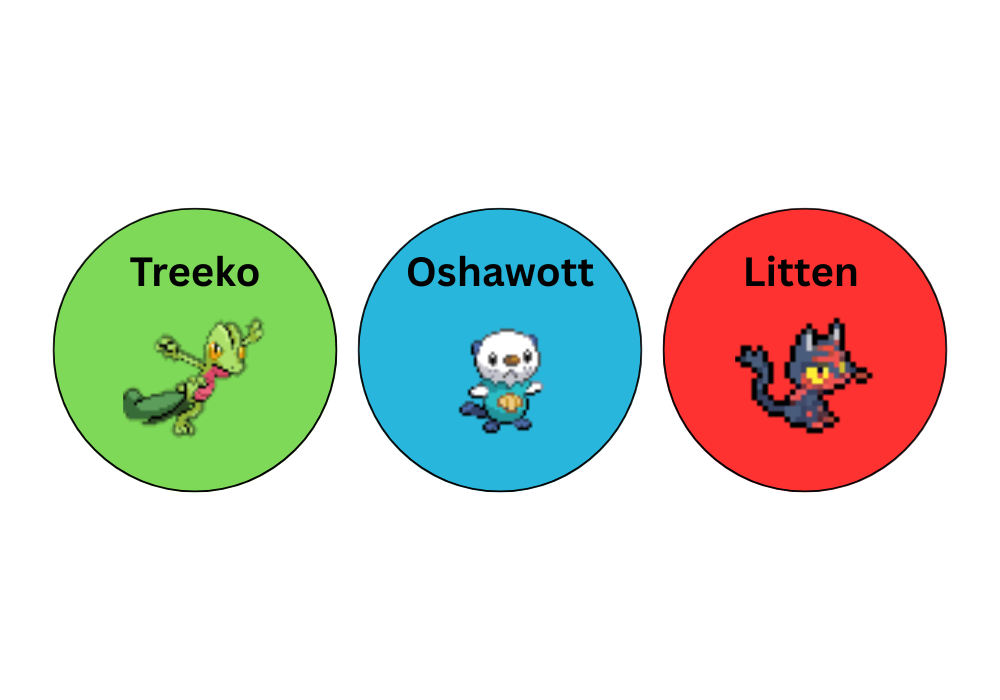
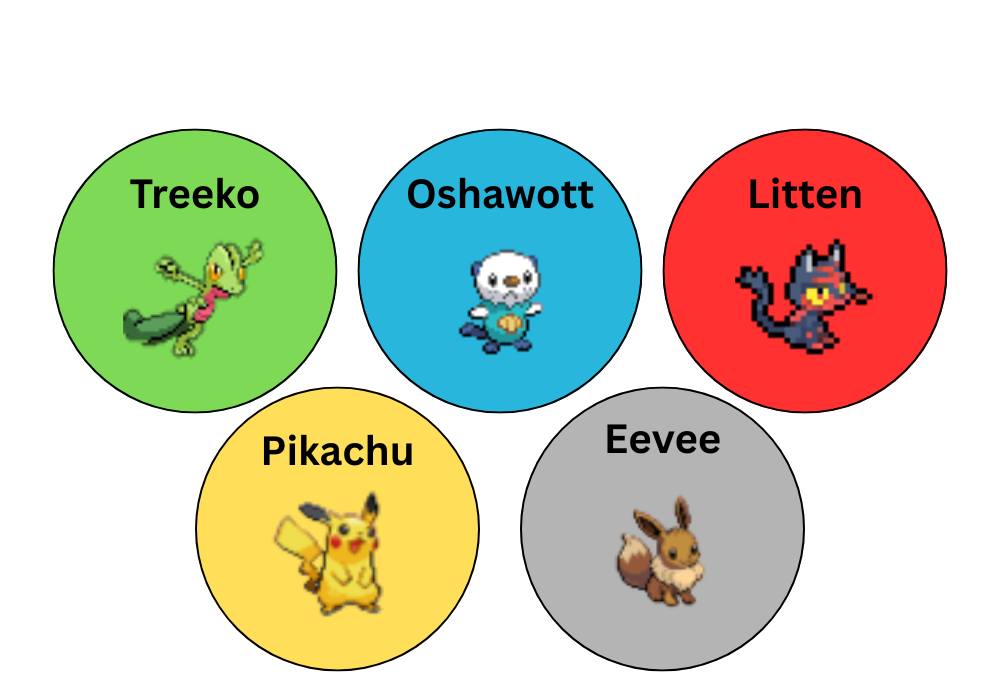
New Sprites and Selection of new pokemon

diff --git a/main.py b/main.py
@@ -31,13 +31,15 @@ def Typedex(movetype,oppenenttype):
     Weakgrass = ["Fire", "Grass", "Dragon"]
     Stronggrass = ["Water", "Ground", "Rock"]
     ImmuneElectric = ["Ground"]
-    WeakElectric = ["Dragon"]
+    WeakElectric = ["Dragon, Electric", "Grass"]
     StorngElectric = ["Flying", "Water"]
     ImmuneNormal = ["Ghost"]
-    WeakNormal = [""]
+    WeakNormal = ["Rock", "Steel"]
     #Weak = ["", "", "", ""]
     #Strong = ["", "", "", ""]
     Effectiveness = 1
+
+
     if movetype == "Water":
         if oppenenttype in Weakwater:
             Effectiveness = 0.5
@@ -169,7 +171,7 @@ while running:
                     yourpokemon = PokemonSelction(pokemon)
                     Type = PokemonType(pokemon)
                     #Auto Rival Pokemon Selector
-                    rivalnumber = random.randint(0,2)
+                    rivalnumber = random.randint(0,4)
                     opponentpokemon = PokemonSelction(rivalnumber)
                     rivalType = PokemonType(rivalnumber)
 
